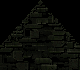
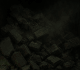
Art: cave-in rubble from painted source (art/src/rubble_src.jpg) - crop (300,50,960,628), one BOX scale-down per size, wall_front palette + 2 lit steps, no dither, ~0.95 wall brightness; build_cave_in.py now only builds dust unless BUILD_RUBBLE=1

diff --git a/scripts/build_rubble_from_source.py b/scripts/build_rubble_from_source.py
@@ -1,0 +1,36 @@
+# Cave-in rubble front wall (near/mid/far) from the painted source art/src/rubble_src.jpg,
+# processed like the portraits (build_ilsevar_from_source.py): crop -> one BOX scale-down per
+# size from the source -> quantize to that distance's wall_front colours (+ up to 2 ramp steps
+# brighter for lit faces), no dither, fully opaque. Brightness matched to ~0.9-1.0 of wall_front.
+# python3 scripts/build_rubble_from_source.py [crop x0 y0 x1 y1]
+import os,sys
+os.chdir(os.path.join(os.path.dirname(os.path.abspath(__file__)),'..'))
+from PIL import Image
+import numpy as np
+SRC='/workspace/sunken-keep/art/src/rubble_src.jpg'
+D='public/art/dungeon_v2/'
+SIZES={'near':(160,140),'mid':(120,100),'far':(80,70)}
+src=Image.open(SRC).convert('RGB')
+if len(sys.argv)==5: CROP=tuple(map(int,sys.argv[1:]))
+else: CROP=(300,50,960,628)   # 1280x720 source: lantern (x~155-205) and painted side walls cropped out, heap fills, dark corridor above right
+crop=src.crop(CROP)
+for dist,(w,h) in SIZES.items():
+    wall=np.array(Image.open(D+f'wall_front_{dist}.png').convert('RGB')).astype(int)
+    P=np.unique(wall.reshape(-1,3),axis=0); P=P[np.argsort(P.sum(1))]
+    step=max(1,len(P)//8)
+    # extended ramp: wall colours plus up to 2 eighth-of-range steps brighter for lit faces,
+    # built by scaling the brightest wall colours (the only non-wall colours allowed)
+    top=P[-1].astype(float); ext=[np.clip(np.round(top*(1+0.12*k)),0,255).astype(int) for k in (1,2)]
+    RAMP=np.vstack([P]+[e[None] for e in ext])
+    small=np.array(crop.resize((w,h),Image.BOX)).astype(float)   # the only resample
+    target=wall.mean()*0.95
+    def q(img):
+        f=img.reshape(-1,1,3); i=((f-RAMP[None])**2).sum(2).argmin(1); return RAMP[i].reshape(img.shape)
+    lo,hi=0.2,4.0
+    for _ in range(18):
+        g=(lo+hi)/2
+        if q(np.clip(small*g,0,255)).mean()<target: lo=g
+        else: hi=g
+    out=q(np.clip(small*(lo+hi)/2,0,255)).astype(np.uint8)
+    Image.fromarray(np.dstack([out,np.full((h,w),255,np.uint8)]),'RGBA').save(D+f'rubble_front_{dist}.png')
+    print(f'{dist}: rubble mean {out.mean():.1f}, wall mean {wall.mean():.1f}, ratio {out.mean()/wall.mean():.2f}')

diff --git a/scripts/build_cave_in.py b/scripts/build_cave_in.py
@@ -135,7 +135,8 @@ def build(dist,seed,fk=1.0,save=True):
     a=np.dstack([out,np.full((H,W),255)]).astype(np.uint8)
     Image.fromarray(a,'RGBA').save(D+f'rubble_front_{dist}.png'); return m1
 KN={'near':2,'mid':1,'far':0}
-for dist,seed in (('near',11),('mid',12),('far',13)):
+# rubble now comes from scripts/build_rubble_from_source.py; set BUILD_RUBBLE=1 to rebuild the procedural version
+for dist,seed in ((('near',11),('mid',12),('far',13)) if os.environ.get('BUILD_RUBBLE') else ()):
     m=build(dist,seed); w=np.array(Image.open(D+f'wall_front_{dist}.png').convert('RGB')).mean()
     print(f'{dist}: rubble mean {m:.1f}, wall mean {w:.1f}')
 # dust burst, 160x140: stringy smeared wisps drifting down/out, dust.png colours + 17-step alpha
